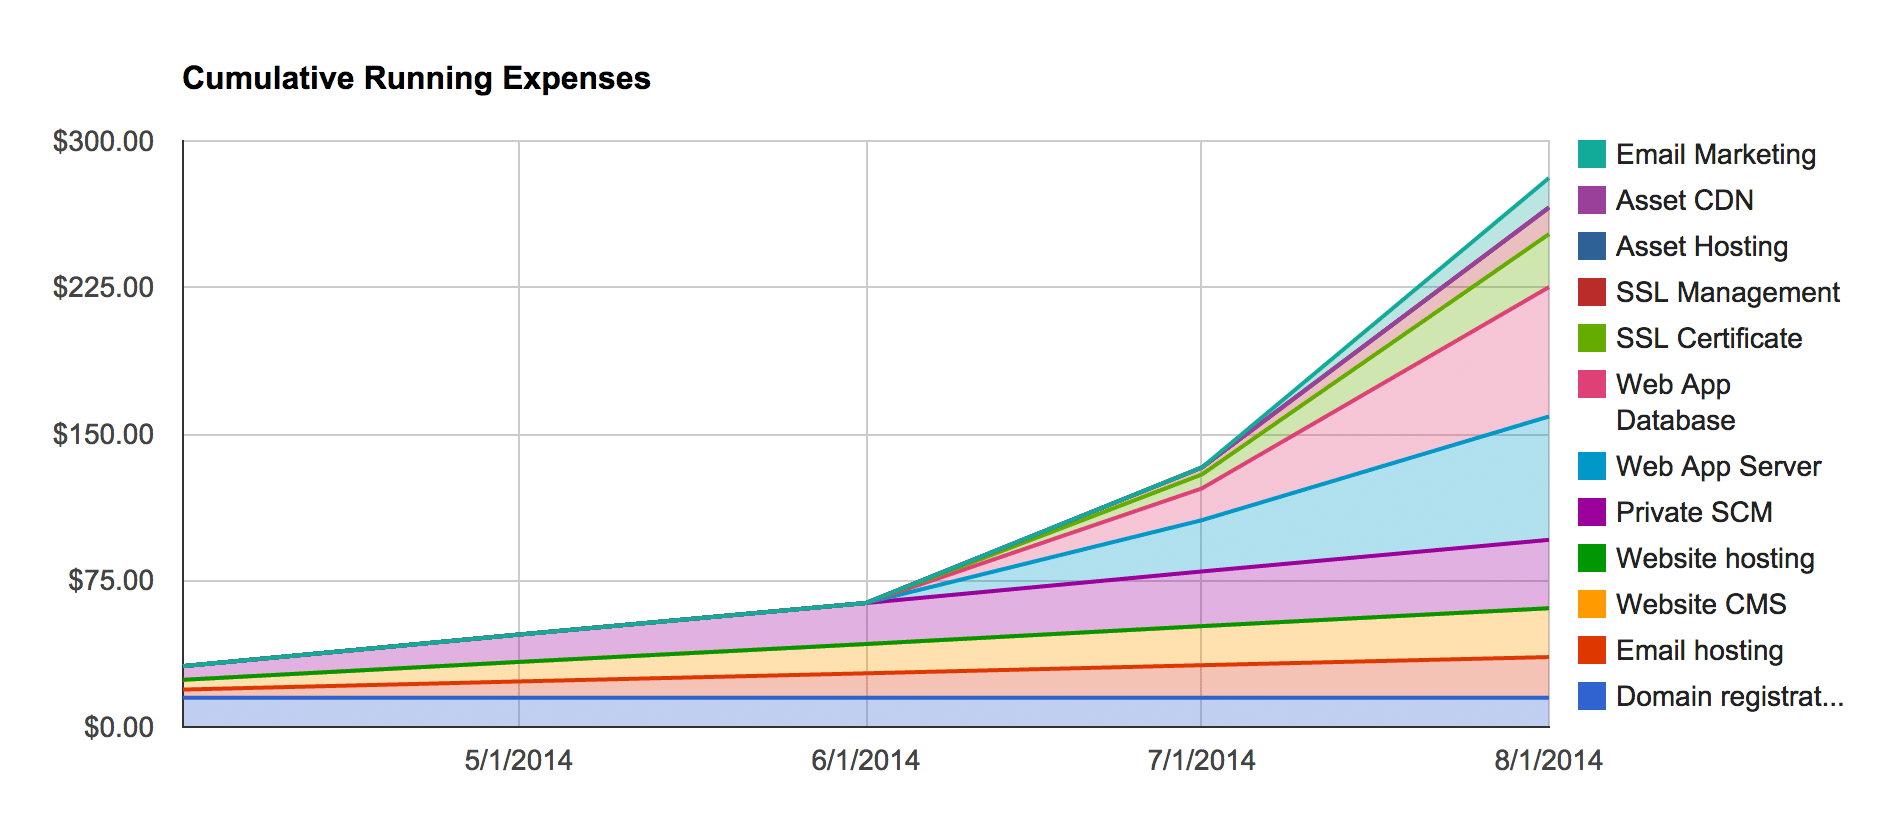
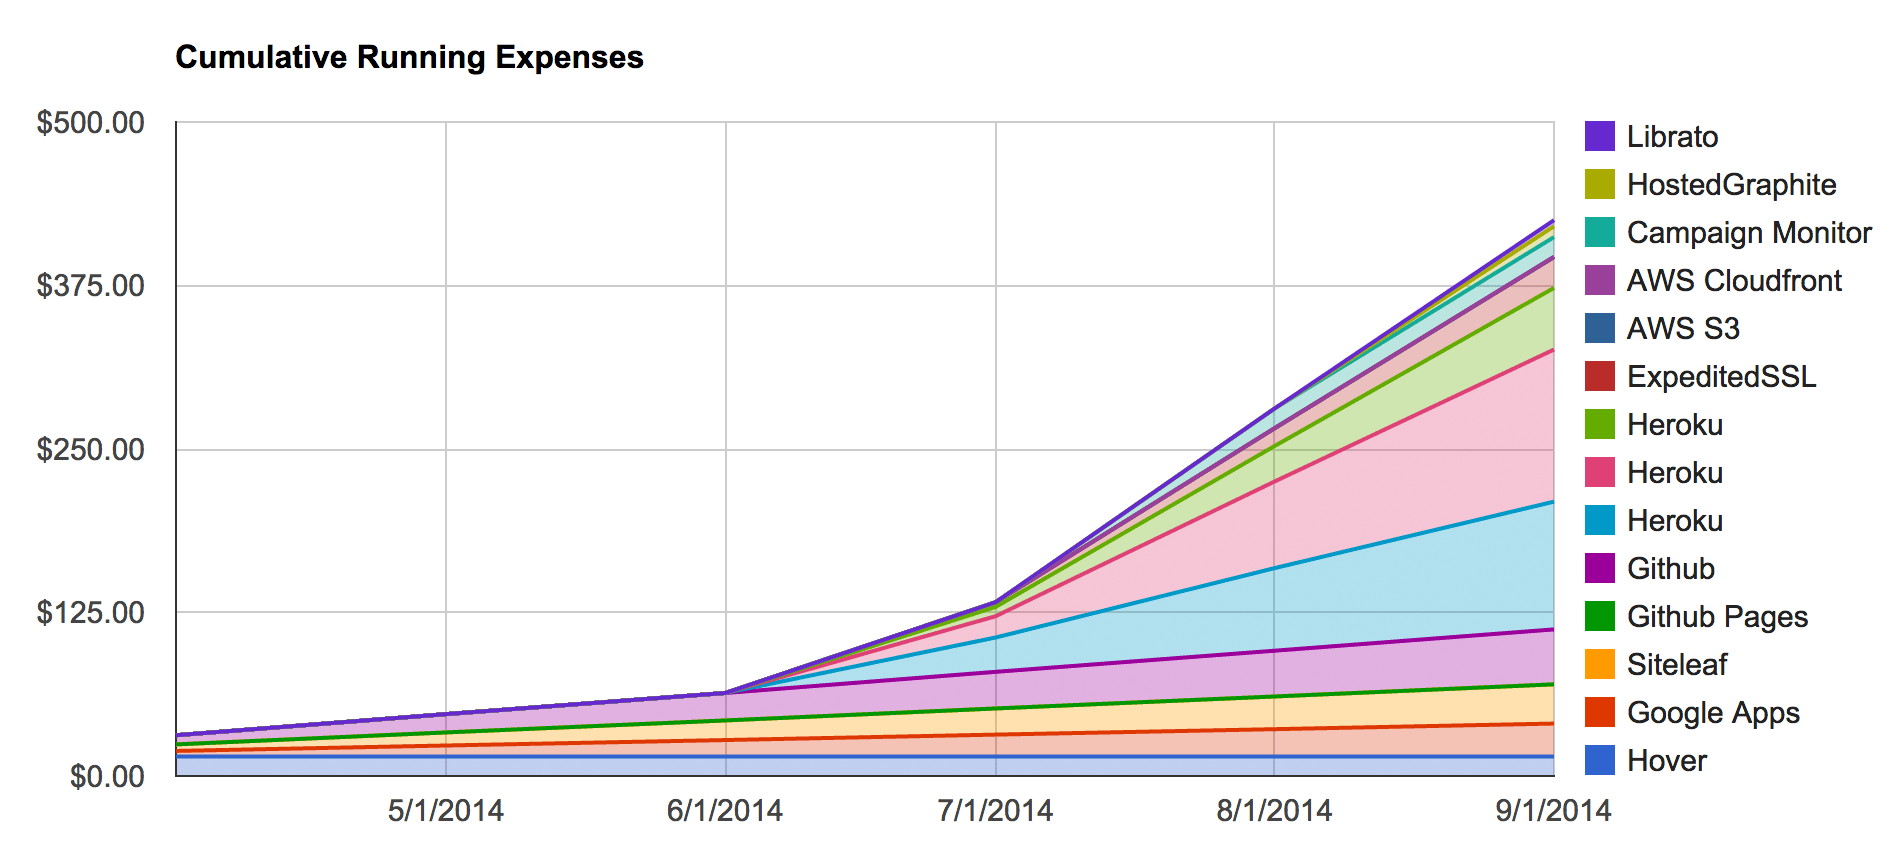
Siteleaf Publish

diff --git a/expenses/index.html b/expenses/index.html
@@ -91,7 +91,7 @@ window.analytics.page();
         
         
         
-        <td class='number-cell' colspan='3'>$1598.00/year</td>
+        <td class='number-cell' colspan='3'>$1826.00/year</td>
       </tr>
     </tfoot>
     <tbody>
@@ -176,11 +176,21 @@ window.analytics.page();
         <td class='number-cell'>$15/occasional</td>
       </tr>
       
+      <tr>
+        <td>Metrics</td>
+        <td>
+          <a href='https://metrics.librato.com/'>Librato</a>
+        </td>
+        <td class='number-cell'>$19/month</td>
+      </tr>
+      
     </tbody>
   </table>
 
   <section class='graph-section'>
-    <p><img src="/assets/cumulative-running-expenses.png" alt="cumulative-running-expenses"> </p>
+    <p><img src="/assets/monthly-expenses.png" alt="monthly-expenses"> </p>
+
+<p><img src="/assets/cumulative-running-expenses.png" alt="cumulative-running-expenses"> </p>
 
 <p><img src="/assets/total-expenses.png" alt="total-expenses"> </p>
 

diff --git a/expenses/metrics/index.html b/expenses/metrics/index.html
@@ -1,0 +1,1 @@
+No template found for 'metrics'
